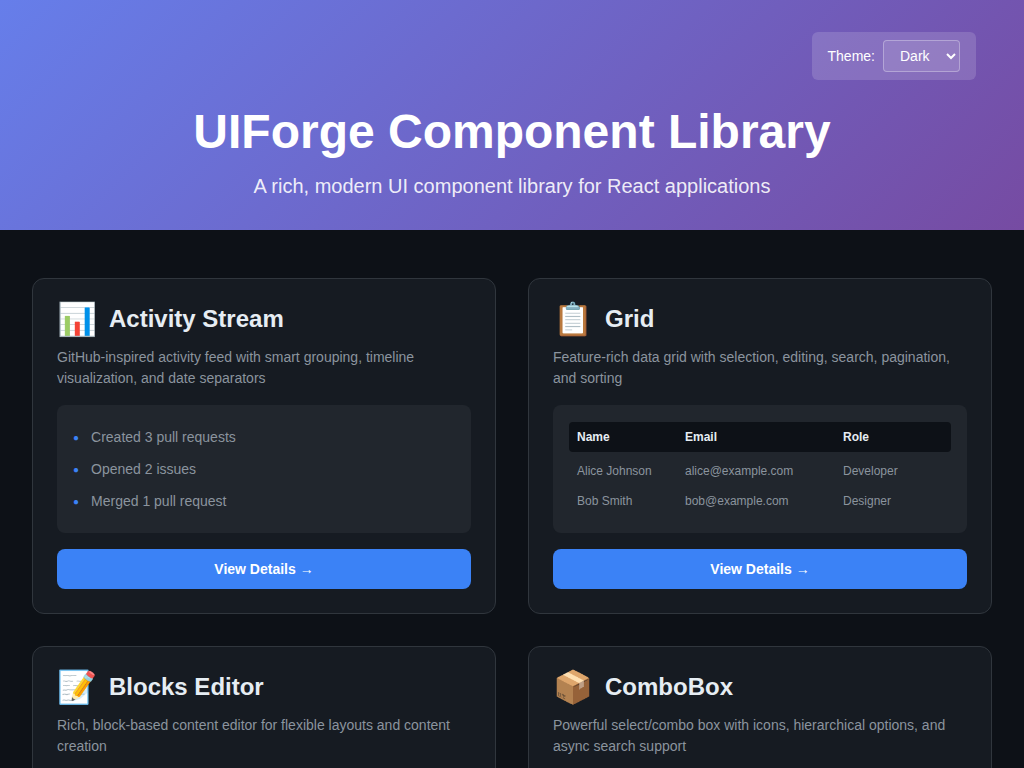
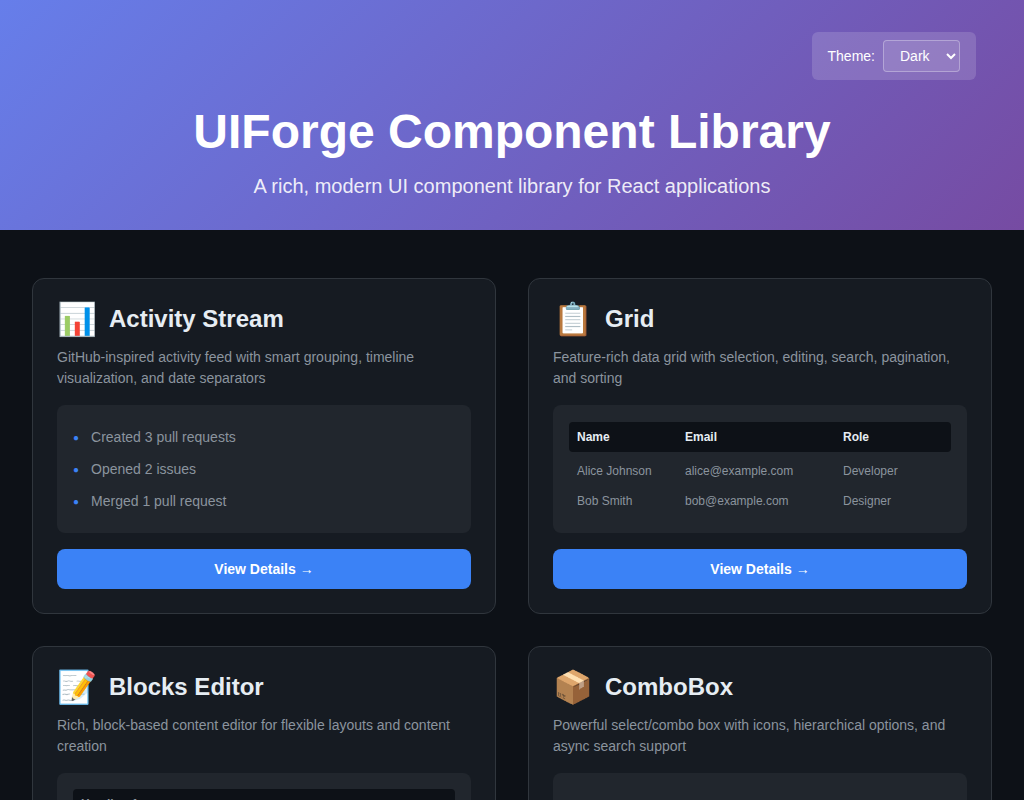
Improve screenshot capture to show isolated component sections
- Update capture script to use element.screenshot() for isolated captures
- Remove mobile-header from screenshots (layout primitive, not standalone component)
- Enhance README with better component gallery organization
- Add instructions for running interactive examples
- Add descriptive captions for each component screenshot
- Fix lint issues (remove unused parameters)

diff --git a/scripts/capture-screenshots.ts b/scripts/capture-screenshots.ts
@@ -1,9 +1,9 @@
 /**
  * Screenshot capture script for UIForge component documentation
  *
- * This script uses Playwright to capture screenshots of all UIForge
- * component examples at desktop viewport (1024px) and saves them
- * to docs/screenshots/ for README documentation.
+ * This script uses Playwright to capture isolated, focused screenshots of
+ * UIForge components for README documentation. Each screenshot shows a
+ * specific component in isolation without surrounding UI elements.
  *
  * Usage:
  *   npx tsx scripts/capture-screenshots.ts
@@ -11,7 +11,7 @@
  * Note: Requires the dev server to be running on http://localhost:5173
  */
 
-import { chromium, Browser, Page } from '@playwright/test'
+import { chromium, Browser, Page, Locator } from '@playwright/test'
 import * as path from 'path'
 import * as fs from 'fs'
 import { fileURLToPath } from 'url'
@@ -22,28 +22,94 @@ const __dirname = path.dirname(__filename)
 
 // Configuration
 const BASE_URL = 'http://localhost:5173'
-const VIEWPORT = { width: 1024, height: 768 }
+const VIEWPORT = { width: 1024, height: 800 }
 const SCREENSHOT_DIR = path.join(__dirname, '..', 'docs', 'screenshots')
 
-// Components to capture with their card names on the Home page and expected selectors
-// The cardName is used to click on the component card to navigate
-// scrollToText is used to scroll to a specific section on the App demo page
-const COMPONENTS: {
+// Component screenshot configurations
+// Each config specifies how to navigate and what element to capture
+interface ComponentConfig {
   name: string
   cardName: string
   waitForSelector: string
-  scrollToText?: string
-}[] = [
-  { name: 'activity-stream', cardName: 'Activity Stream', waitForSelector: '.activity-stream-example' },
-  { name: 'grid', cardName: 'Grid', waitForSelector: '.app', scrollToText: 'UIForgeGrid Component' },
-  { name: 'blocks-editor', cardName: 'Blocks Editor', waitForSelector: '.app', scrollToText: 'UIForgeBlocksEditor Component' },
-  { name: 'combobox', cardName: 'ComboBox', waitForSelector: '.app', scrollToText: 'UIForgeComboBox Component' },
-  { name: 'button', cardName: 'Button', waitForSelector: '.app', scrollToText: 'Button Component' },
-  { name: 'icon-library', cardName: 'Icon Library', waitForSelector: '.icon-library' },
-  { name: 'video', cardName: 'Video', waitForSelector: '.video-example' },
-  { name: 'sidebar', cardName: 'Sidebar', waitForSelector: '.sidebar-example' },
-  { name: 'mobile-header', cardName: 'Mobile Header', waitForSelector: '.mobile-header-example' },
+  // Element selector to screenshot (if not provided, takes viewport screenshot)
+  elementSelector?: string
+  // For App demo page components that need scrolling
+  scrollToHeading?: string
+  // Capture the section element containing this heading
+  captureSection?: boolean
+}
+
+const COMPONENTS: ComponentConfig[] = [
+  // Dedicated example pages - capture main content area
+  {
+    name: 'activity-stream',
+    cardName: 'Activity Stream',
+    waitForSelector: '.activity-stream-example',
+    elementSelector: '.activity-stream-example__demo',
+  },
+  {
+    name: 'icon-library',
+    cardName: 'Icon Library',
+    waitForSelector: '.icon-library',
+    elementSelector: '.icon-library-main',
+  },
+  {
+    name: 'video',
+    cardName: 'Video',
+    waitForSelector: '.video-example',
+    elementSelector: '.video-example__section:first-of-type',
+  },
+  {
+    name: 'sidebar',
+    cardName: 'Sidebar',
+    waitForSelector: '.sidebar-example',
+    elementSelector: '.sidebar-example__section:first-of-type',
+  },
+  // App demo page components - capture specific sections
+  {
+    name: 'grid',
+    cardName: 'Grid',
+    waitForSelector: '.app',
+    scrollToHeading: 'UIForgeGrid Component',
+    captureSection: true,
+  },
+  {
+    name: 'blocks-editor',
+    cardName: 'Blocks Editor',
+    waitForSelector: '.app',
+    scrollToHeading: 'UIForgeBlocksEditor Component',
+    captureSection: true,
+  },
+  {
+    name: 'combobox',
+    cardName: 'ComboBox',
+    waitForSelector: '.app',
+    scrollToHeading: 'UIForgeComboBox Component',
+    captureSection: true,
+  },
+  {
+    name: 'button',
+    cardName: 'Button',
+    waitForSelector: '.app',
+    scrollToHeading: 'Button Component',
+    captureSection: true,
+  },
 ]
+
+async function captureElementScreenshot(
+  element: Locator,
+  outputPath: string
+): Promise<void> {
+  // Ensure element is in view
+  await element.scrollIntoViewIfNeeded()
+  // Wait for any animations to complete
+  await new Promise((resolve) => setTimeout(resolve, 300))
+
+  // Take screenshot of the element
+  await element.screenshot({
+    path: outputPath,
+  })
+}
 
 async function captureScreenshots(): Promise<void> {
   console.log('📸 Starting screenshot capture...')
@@ -78,15 +144,13 @@ async function captureScreenshots(): Promise<void> {
     let successCount = 0
     let failCount = 0
 
-    // First, capture the home page
-    console.log(`\n📷 Capturing: home`)
-    console.log(`   URL: ${BASE_URL}`)
-    
+    // Capture the component library home page (full viewport)
+    console.log(`\n📷 Capturing: home (Component Library Overview)`)
     try {
       await page.goto(BASE_URL, { waitUntil: 'networkidle' })
       await page.waitForSelector('.home', { timeout: 10000 })
       await page.waitForTimeout(500)
-      
+
       const homeOutputPath = path.join(SCREENSHOT_DIR, 'home.png')
       await page.screenshot({ path: homeOutputPath, fullPage: false })
       console.log(`   ✅ Saved: ${homeOutputPath}`)
@@ -96,37 +160,43 @@ async function captureScreenshots(): Promise<void> {
       failCount++
     }
 
-    // Now capture each component by navigating via the home page cards
+    // Capture each component in isolation
     for (const component of COMPONENTS) {
       const outputPath = path.join(SCREENSHOT_DIR, `${component.name}.png`)
       console.log(`\n📷 Capturing: ${component.name}`)
 
       try {
-        // Navigate back to home first
+        // Navigate to home first
         await page.goto(BASE_URL, { waitUntil: 'networkidle' })
         await page.waitForSelector('.home', { timeout: 10000 })
         await page.waitForTimeout(300)
 
-        // Find and click the component card
+        // Click the component card to navigate
         const cardSelector = `.component-card:has(h3:text("${component.cardName}"))`
         await page.click(cardSelector, { timeout: 5000 })
 
-        // Wait for navigation and content to load
+        // Wait for page to load
         await page.waitForSelector(component.waitForSelector, { timeout: 10000 })
         await page.waitForTimeout(500)
 
-        // If we need to scroll to a specific section (for App demo page)
-        if (component.scrollToText) {
-          const sectionHeading = page.getByRole('heading', { name: component.scrollToText })
-          await sectionHeading.scrollIntoViewIfNeeded()
+        // Handle App demo page components that need section capture
+        if (component.scrollToHeading && component.captureSection) {
+          // Find the section containing the heading
+          const heading = page.getByRole('heading', { name: component.scrollToHeading, exact: false })
+          await heading.scrollIntoViewIfNeeded()
           await page.waitForTimeout(300)
-        }
 
-        // Take the screenshot
-        await page.screenshot({
-          path: outputPath,
-          fullPage: false,
-        })
+          // Get the parent section element
+          const section = page.locator('.demo-section', { has: heading })
+          await captureElementScreenshot(section, outputPath)
+        } else if (component.elementSelector) {
+          // Capture specific element
+          const element = page.locator(component.elementSelector).first()
+          await captureElementScreenshot(element, outputPath)
+        } else {
+          // Fallback to viewport screenshot
+          await page.screenshot({ path: outputPath, fullPage: false })
+        }
 
         console.log(`   ✅ Saved: ${outputPath}`)
         successCount++

diff --git a/README.md b/README.md
@@ -22,60 +22,82 @@ A rich user interface library for ReactJS developers written by a seasoned user 
 
 ## Component Gallery
 
+Explore UIForge components in action. Each component is fully interactive in our example application.
+
+### Interactive Examples
+
+Run the development server to explore all components interactively:
+
+```bash
+git clone https://github.com/chriscase/UIForge.git
+cd UIForge
+npm install
+npm run dev
+```
+
+Then open [http://localhost:5173](http://localhost:5173) to browse the component library.
+
+### Component Overview
+
+<p align="center">
+  <img src="docs/screenshots/home.png" alt="UIForge Component Library" width="800"/><br/>
+  <em>UIForge Component Library - Browse all available components</em>
+</p>
+
+### Core Components
+
 <table>
   <tr>
     <td align="center" width="50%">
-      <img src="docs/screenshots/home.png" alt="Component Library Home" width="100%"/><br/>
-      <strong>Component Library</strong>
+      <img src="docs/screenshots/grid.png" alt="UIForgeGrid - Data Grid Component" width="100%"/><br/>
+      <strong>UIForgeGrid</strong><br/>
+      <em>Feature-rich data grid with selection, inline editing, search, pagination, and custom actions</em>
     </td>
     <td align="center" width="50%">
-      <img src="docs/screenshots/activity-stream.png" alt="Activity Stream" width="100%"/><br/>
-      <strong>Activity Stream</strong>
+      <img src="docs/screenshots/combobox.png" alt="UIForgeComboBox - Select Component" width="100%"/><br/>
+      <strong>UIForgeComboBox</strong><br/>
+      <em>Powerful select/combo box with icons, hierarchical options, and async search support</em>
     </td>
   </tr>
   <tr>
     <td align="center">
-      <img src="docs/screenshots/grid.png" alt="Data Grid" width="100%"/><br/>
-      <strong>Data Grid</strong>
+      <img src="docs/screenshots/blocks-editor.png" alt="UIForgeBlocksEditor - Content Editor" width="100%"/><br/>
+      <strong>UIForgeBlocksEditor</strong><br/>
+      <em>Rich block-based content editor with drag-and-drop reordering and formatting</em>
     </td>
     <td align="center">
-      <img src="docs/screenshots/combobox.png" alt="ComboBox" width="100%"/><br/>
-      <strong>ComboBox</strong>
-    </td>
-  </tr>
-  <tr>
-    <td align="center">
-      <img src="docs/screenshots/blocks-editor.png" alt="Blocks Editor" width="100%"/><br/>
-      <strong>Blocks Editor</strong>
-    </td>
-    <td align="center">
-      <img src="docs/screenshots/icon-library.png" alt="Icon Library" width="100%"/><br/>
-      <strong>Icon Library</strong>
+      <img src="docs/screenshots/activity-stream.png" alt="UIForgeActivityStream - Activity Feed" width="100%"/><br/>
+      <strong>UIForgeActivityStream</strong><br/>
+      <em>GitHub-inspired activity feed with smart grouping and timeline visualization</em>
     </td>
   </tr>
   <tr>
     <td align="center">
-      <img src="docs/screenshots/video.png" alt="Video Component" width="100%"/><br/>
-      <strong>Video</strong>
+      <img src="docs/screenshots/sidebar.png" alt="UIForgeSidebar - Navigation Component" width="100%"/><br/>
+      <strong>UIForgeSidebar</strong><br/>
+      <em>Responsive sidebar with static, drawer, and bottom sheet variants</em>
     </td>
     <td align="center">
-      <img src="docs/screenshots/sidebar.png" alt="Sidebar" width="100%"/><br/>
-      <strong>Sidebar</strong>
+      <img src="docs/screenshots/video.png" alt="UIForgeVideo - Video Player" width="100%"/><br/>
+      <strong>UIForgeVideo</strong><br/>
+      <em>Universal video embedding with support for 30+ platforms</em>
     </td>
   </tr>
   <tr>
     <td align="center">
       <img src="docs/screenshots/button.png" alt="Button Component" width="100%"/><br/>
-      <strong>Button</strong>
+      <strong>Button</strong><br/>
+      <em>Versatile button with multiple variants, sizes, and accessibility features</em>
     </td>
     <td align="center">
-      <img src="docs/screenshots/mobile-header.png" alt="Mobile Header" width="100%"/><br/>
-      <strong>Mobile Header</strong>
+      <img src="docs/screenshots/icon-library.png" alt="Icon Library" width="100%"/><br/>
+      <strong>Icon Library</strong><br/>
+      <em>Comprehensive collection of monochrome SVG icons</em>
     </td>
   </tr>
 </table>
 
-> Screenshots are automatically generated from the component examples. Run `npm run screenshots` to regenerate.
+> 📸 Screenshots are automatically generated from the interactive examples. Run `npm run screenshots` to regenerate.
 
 ## Installation
 
